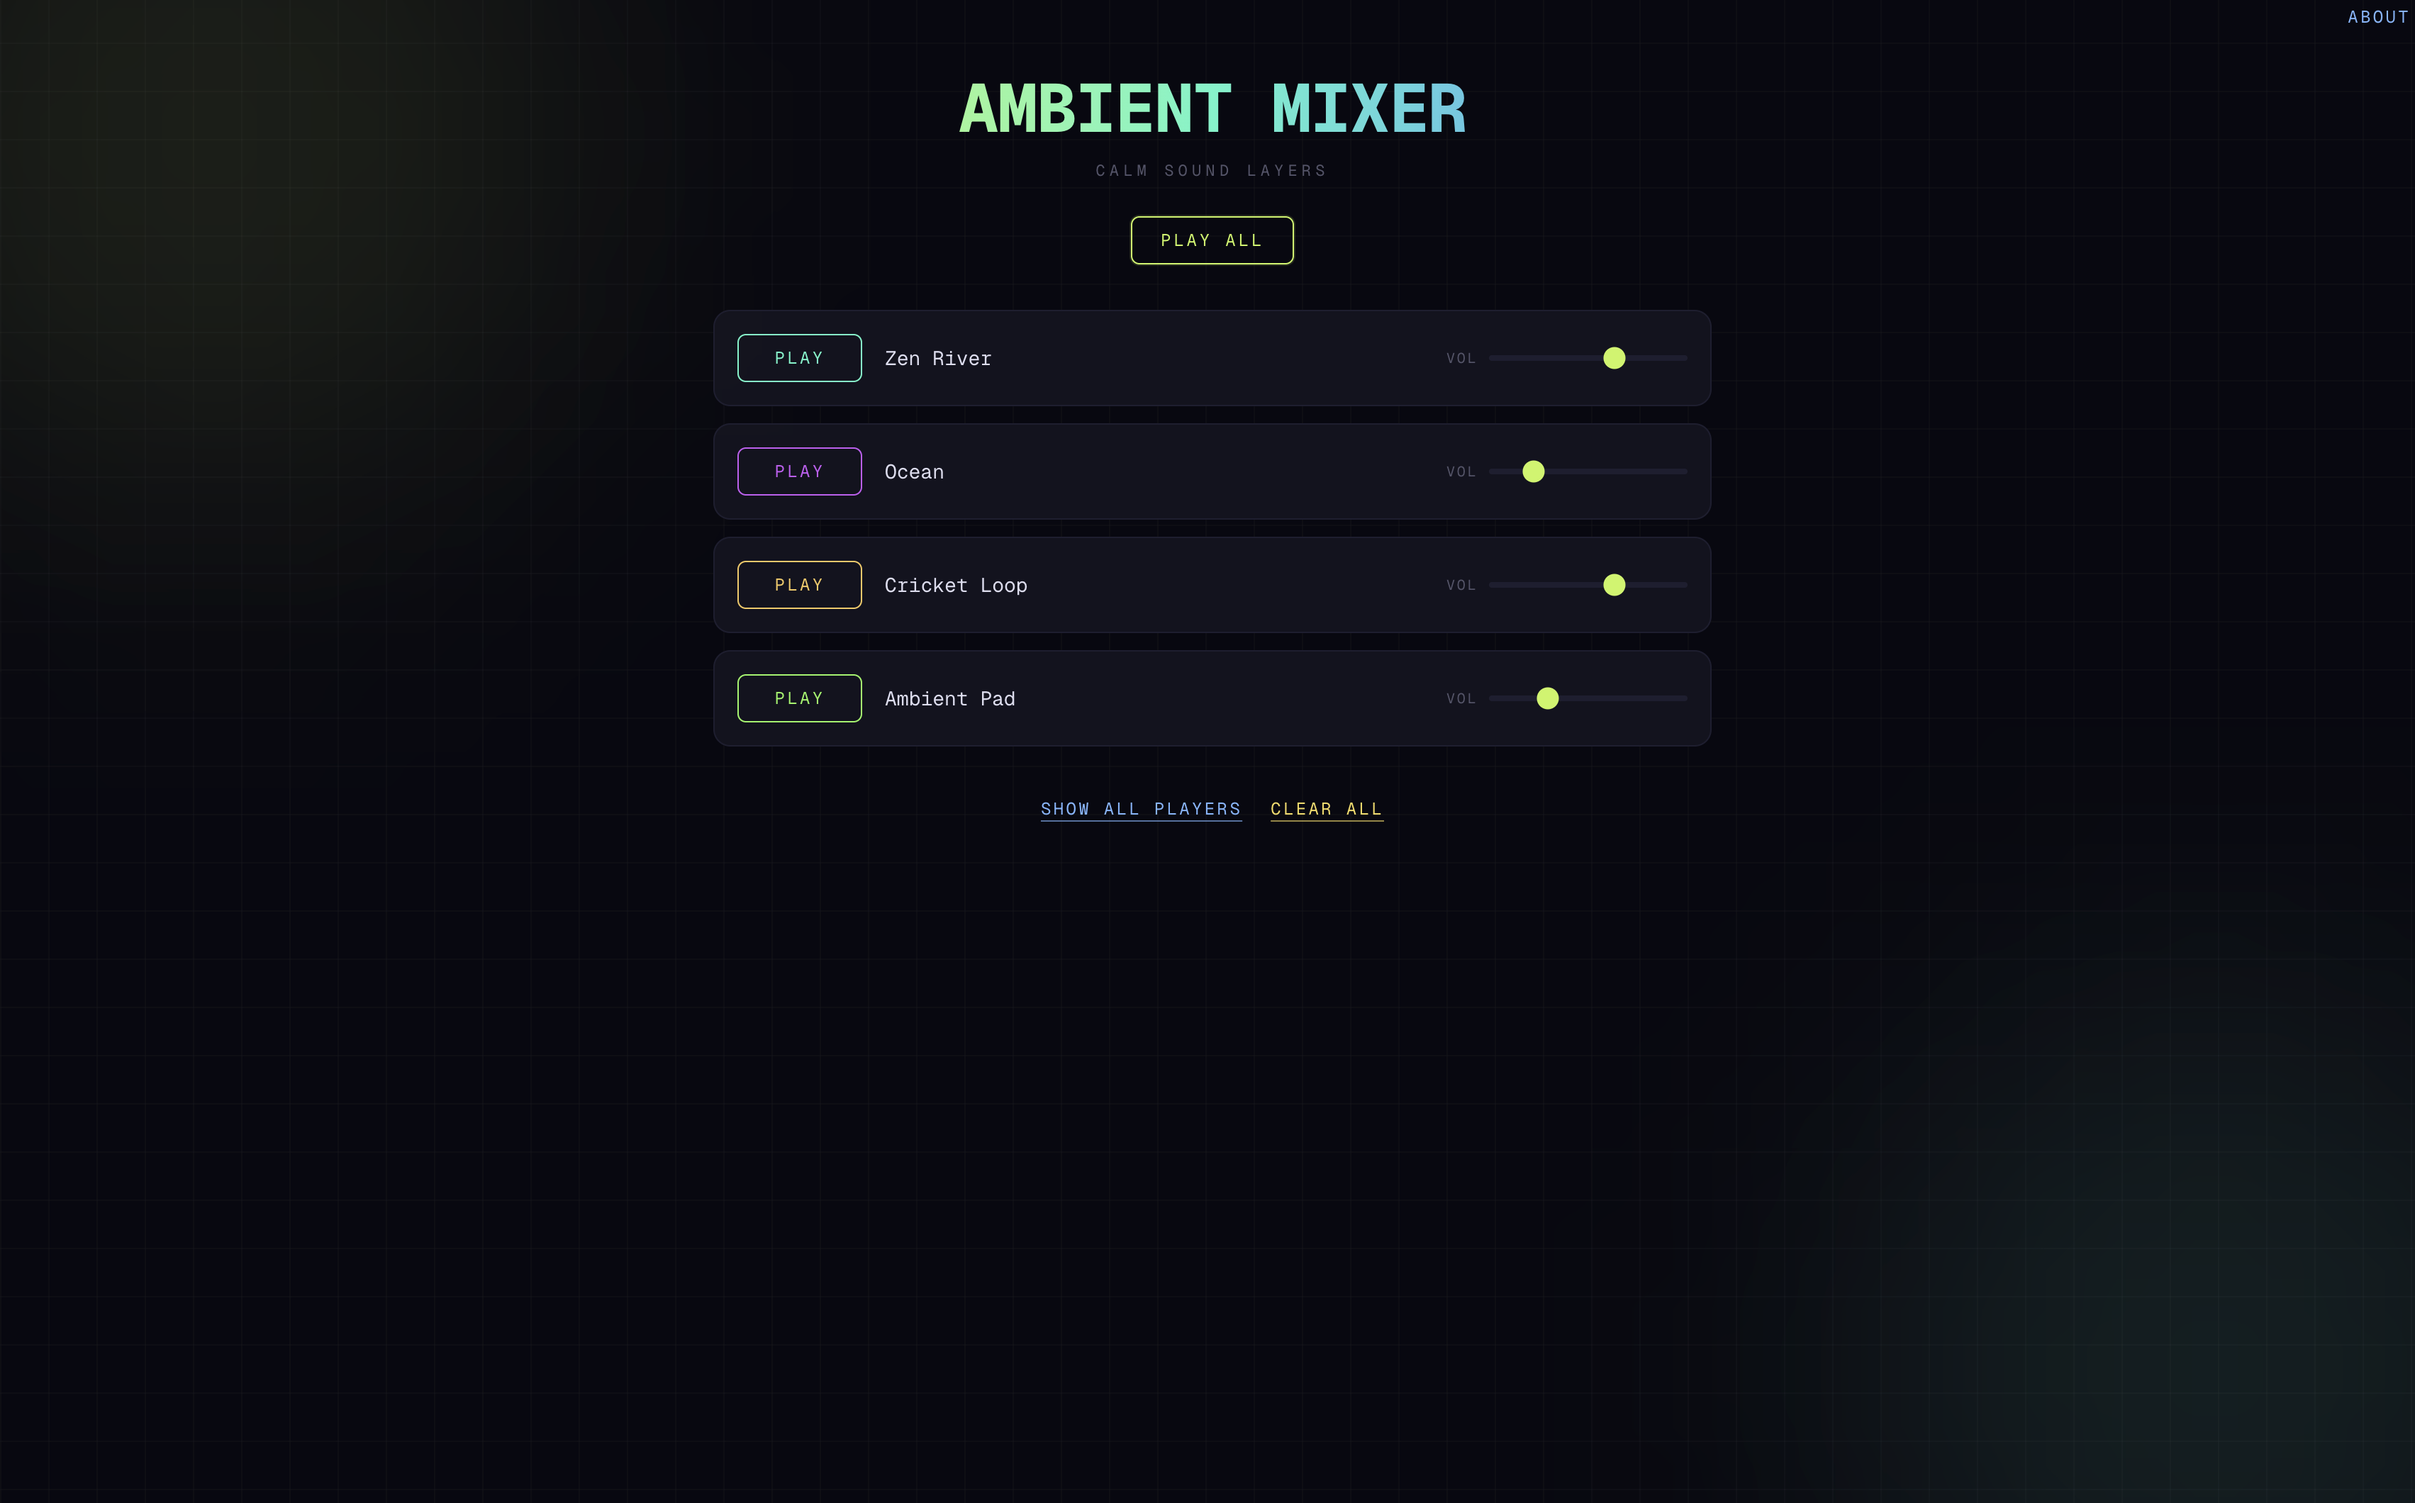
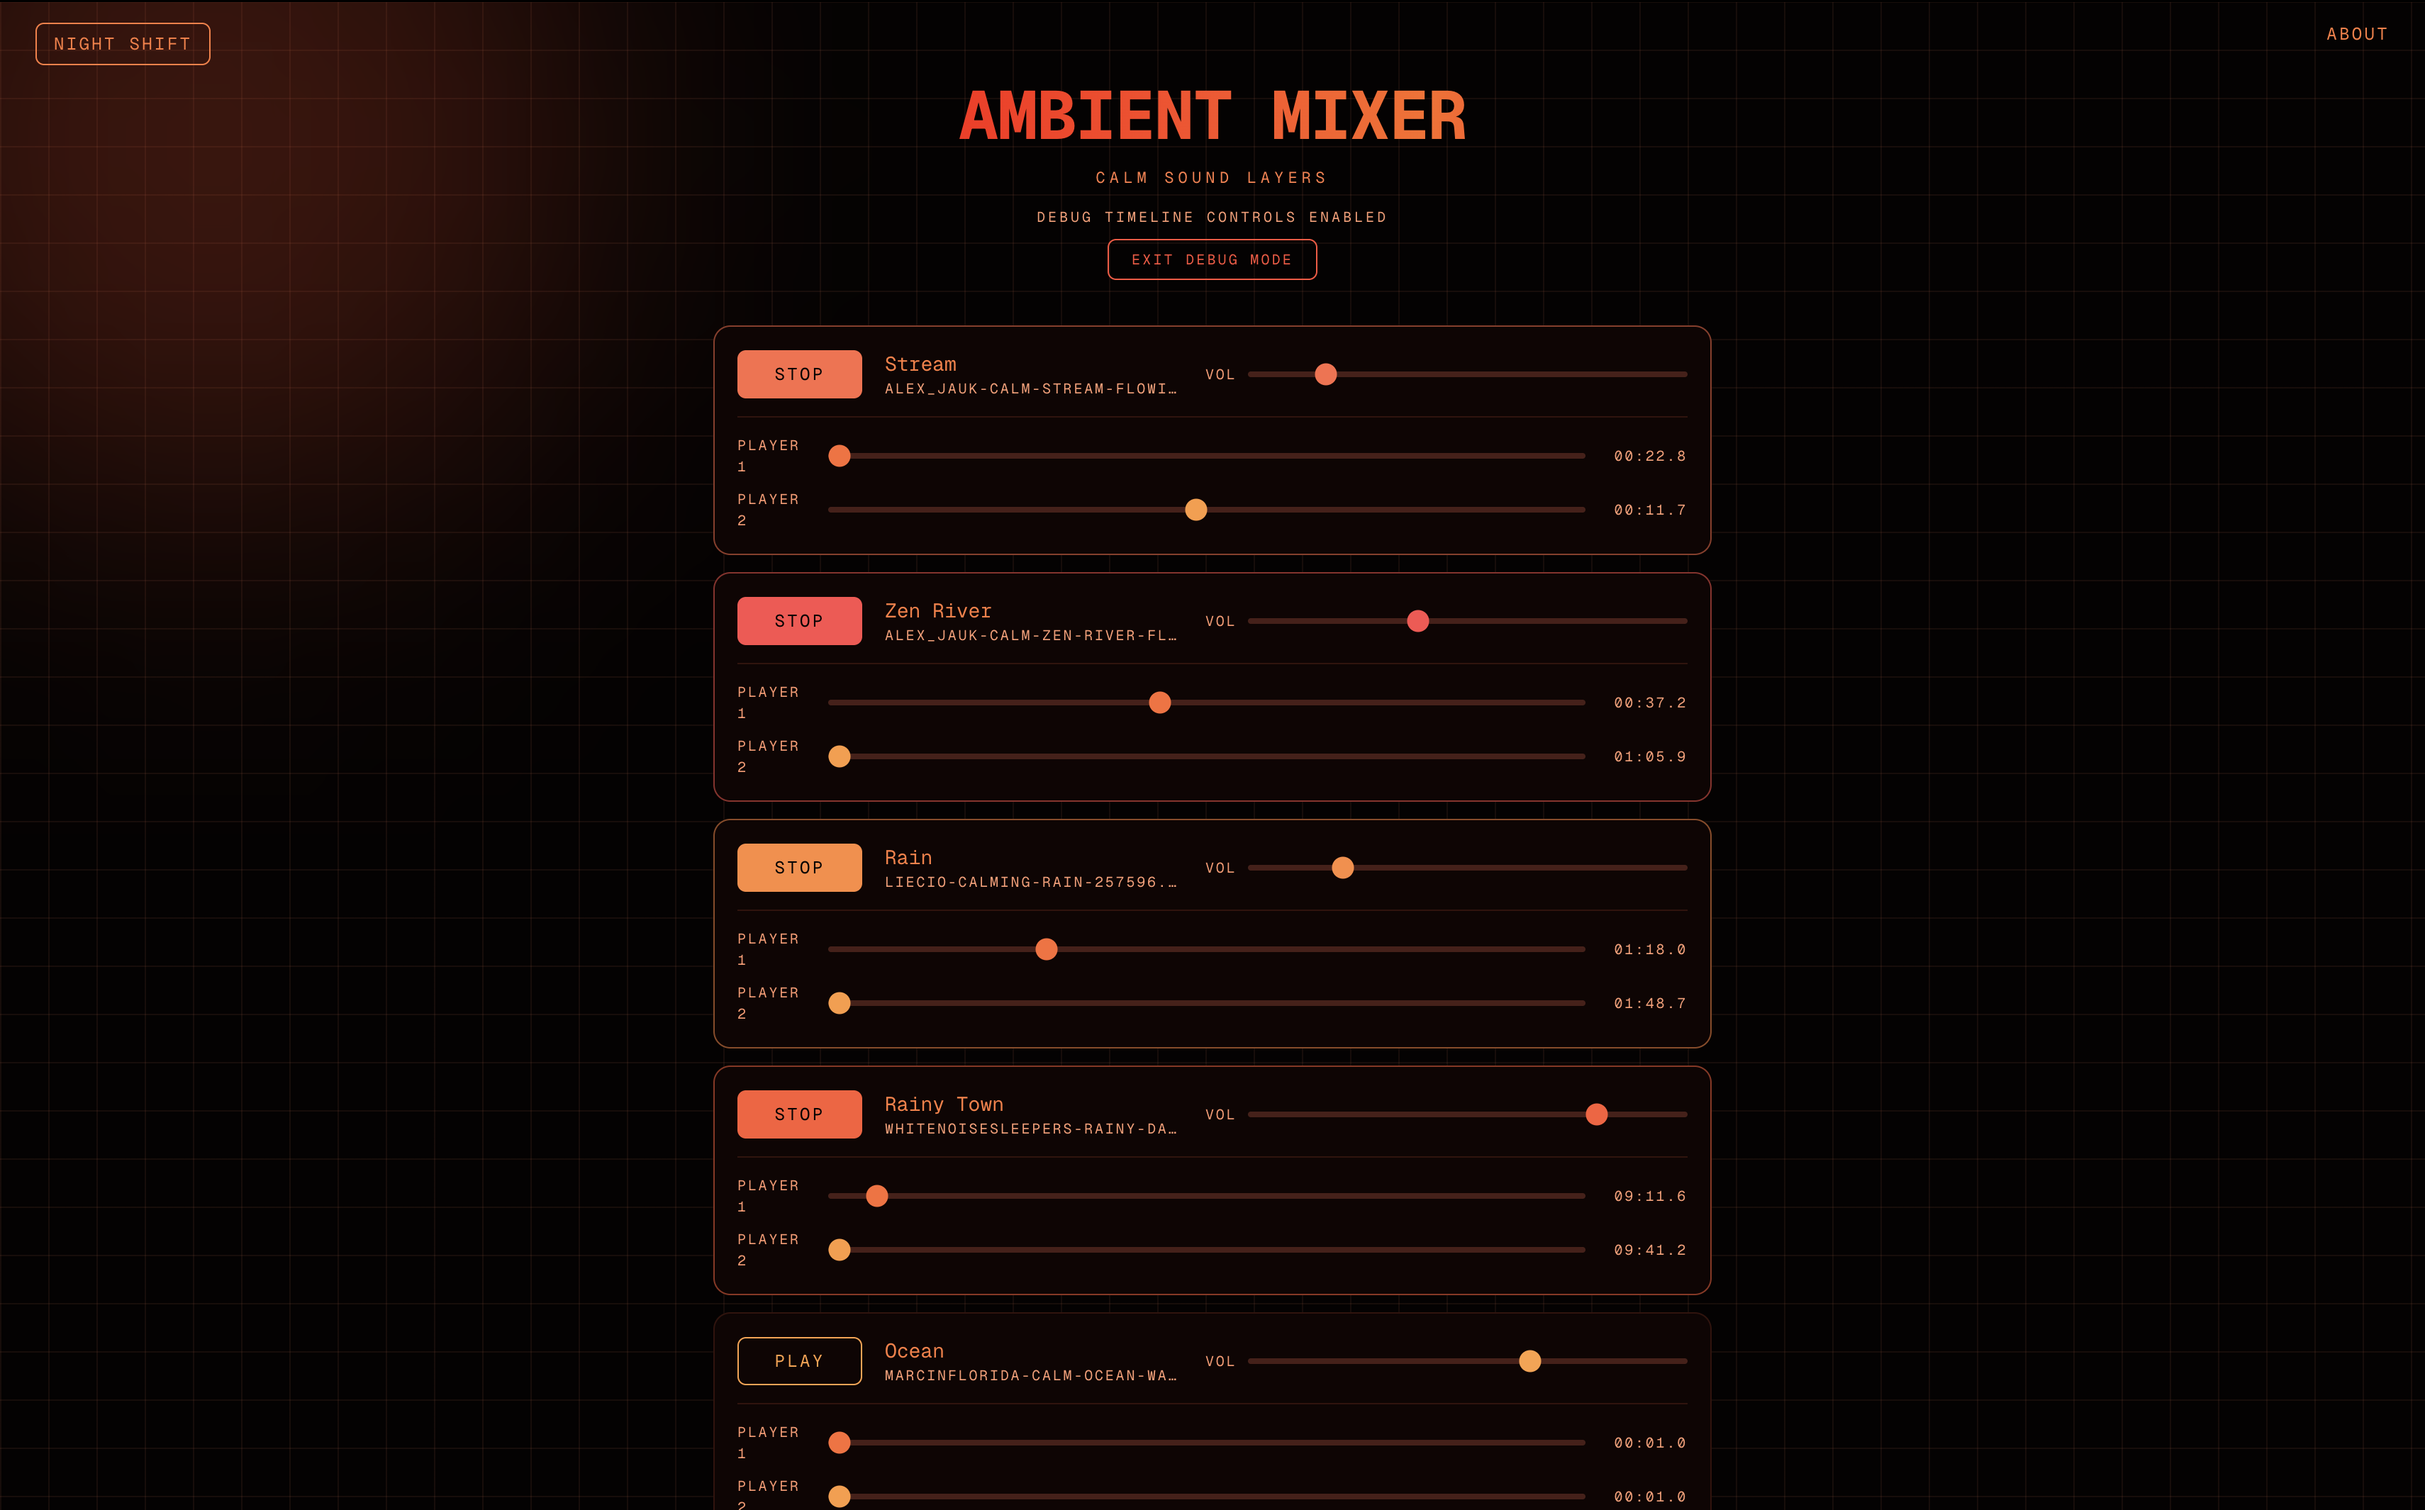
update project image and description

diff --git a/data/projects.ts b/data/projects.ts
@@ -39,7 +39,7 @@ export const projects: Project[] = [
     "detail-image-second": "/screenshots/ambient-mixer-detail.png",
     "detail-image-first-alt": "Ambient Mixer homepage screenshot",
     "detail-image-second-alt":
-      "Ambient Mixer screenshot showing players and volumes selected",
+      "Ambient Mixer screenshot of night theme and in debug mode",
     href: "https://ambient-mixer-xi.vercel.app/",
     tags: [{ label: "Next.js" }, { label: "React" }, { label: "TypeScript" }],
     bullets: [
@@ -47,6 +47,8 @@ export const projects: Project[] = [
       "Seamless looping without harsh cuts, dual HTMLAudio players per track with timed crossfades before each loop boundary",
       "Shareable/bookmarkable mixes via query string: which tracks are playing and each volume level sync to the URL",
       "Hydration from the URL on load so shared links resume the same soundscape; optional “Play all” for the visible subset",
+      "Night theme toggle for dark UI styling tuned for evening use and long sessions",
+      "Built-in debug mode to surface app state and playback diagnostics (add debug=true to URL)",
       "Built with Next.js App Router, React 19, TypeScript, Tailwind CSS",
       "Unit tests for button visibilty logic and URL-state behavior with Jest + React Testing Library",
     ],
